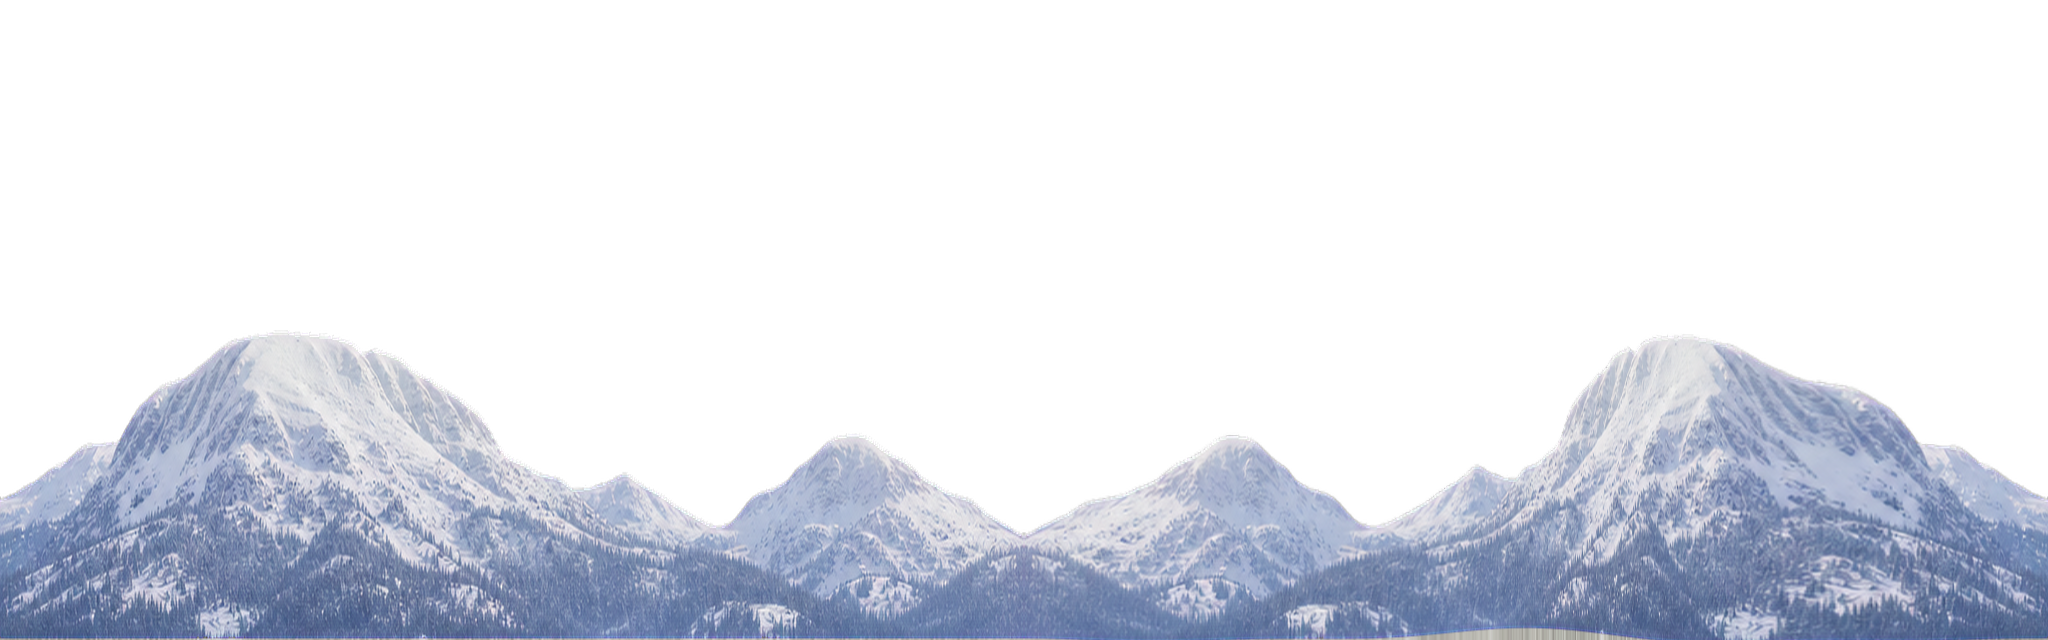
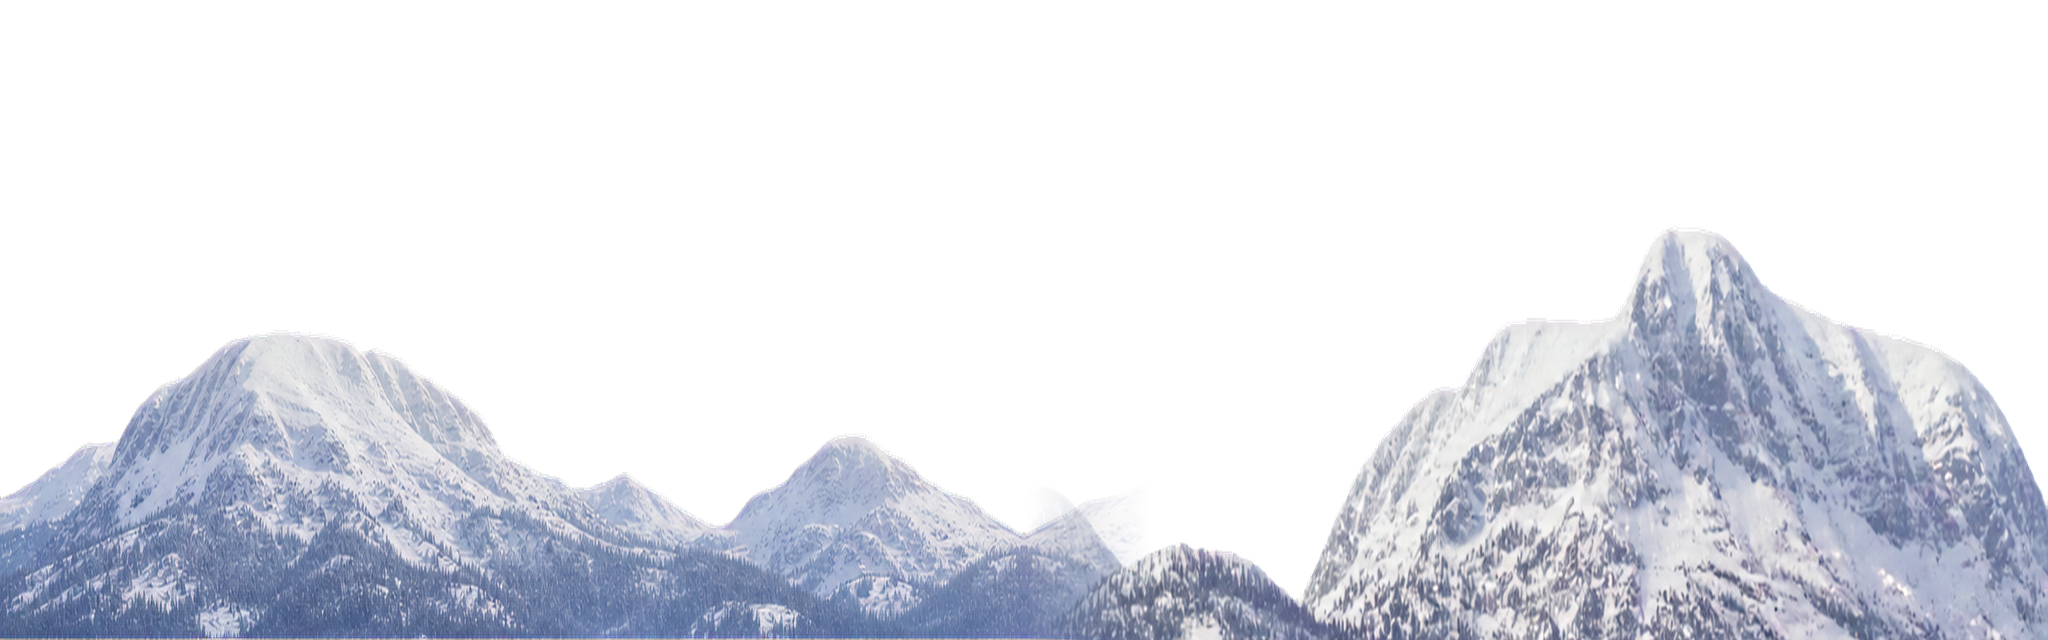
Wheel-load steering pose + another biome band art pass
Two parallel-session changes, committed together after validation.

Steering pose (GameScene.js, RestStopScene.js): the turn art is now
driven by WHEEL LOAD rather than raw steering intent. A pose-local
accumulator lerps toward _steerIntent at the same engage/release rates as
the physics steer ramp, and the pose engages only past ~35% load
(~0.14s of a real hold), with release hysteresis at 20% to stop it
flickering at the threshold. The previous intent-keyed version posed the
frame the player touched the controls, which read as fake; a quick tap
now only builds ~20-25% load and never flashes the art.

Band art: 21 more PNGs re-exported (easton, kittitas, north_bend,
palouse, pass_alpine, vantage_basalt, westside_forest — all three layers
each). Validated as before, since a blank band once shipped unnoticed:
all 27 are 2048x640, none blank, none near-empty.

Tests: 550 green. vite build clean.

Changed region(s): [[0.5, 0.3438, 1.0, 1.0]]

diff --git a/src/scenes/GameScene.js b/src/scenes/GameScene.js
@@ -13725,76 +13725,61 @@ export class GameScene extends Phaser.Scene {
    * Steering pose — swap the player sprite between the straight rear view and
    * the rear-three-quarter turn art. VISUAL ONLY: writes nothing to physics.
    *
-   * Driven by steering INTENT (`_steerIntent`, captured pre-ramp in
-   * _updatePlayer), NOT by the car's lateral velocity (owner 2026-08-10).
-   * Velocity is the last link in a three-stage lag chain — the 0.33 s input
-   * weight ramp, then grip-limited lateral acceleration, then a 0.30 magnitude
-   * gate — so a velocity-keyed pose always arrived visibly late, and no amount
-   * of debounce tuning could fix it. Intent is known the frame the player
-   * presses.
+   * Driven by WHEEL LOAD (owner 2026-08-11): a pose-local accumulator lerps
+   * toward `_steerIntent` at the SAME engage/release rates as the classic
+   * physics steer ramp, and the turn art engages only once the wheel is ~35 %
+   * loaded (~0.14 s of a real hold). A quick tap only ever builds ~20-25 %
+   * load, so it never flashes the turn art — the previous intent-keyed version
+   * posed the very frame the player touched the controls, which read as fake.
+   * Release hysteresis at 20 % keeps the pose from flickering at the line.
    *
-   * That also fixes the reversal bug: the old machine had to fully RELEASE
-   * before it could engage the opposite side, so through a left->right flip the
-   * sprite kept showing the LEFT art while the car was already travelling
-   * right. Intent flips sign instantly.
+   * The accumulator is deliberately NOT `_steerRamp` itself: physics only
+   * ramps in classic mode (tilt is analog, flappy is instant), but the owner
+   * wants the load gate in ALL modes — including flappy, which loses its old
+   * always-posed-per-tap behavior. In classic the two ramps track identically,
+   * so the pose still mirrors the real wheel.
+   *
+   * Reversals need no special casing anymore: the load unwinds through center
+   * on a left->right flip, so the sprite naturally shows straight for the
+   * beat the wheel crosses zero — which is what a real car does.
    *
    * Direction mapping: the turn art depicts the car turning toward SCREEN-LEFT,
    * so dir < 0 renders it unflipped and dir > 0 mirrors it.
-   *
-   * Per mode:
-   *   classic  digital +/-1  -> engages the same frame (no debounce needed)
-   *   tilt     analog        -> 0.18 deadzone + 30 ms debounce vs hand jitter
-   *   flappy   never neutral -> always posed, mirroring on each tap (owner's call)
    */
   _updateSteerPose(dt, rawLean) {
     const ps = this.playerSprite;
     if (!ps || this._cockpitActive) return;
     const base = 'codex_beater_back', turn = 'codex_beater_back_turn';
     if (this._playerArtKey !== base || !this.textures.exists(turn)) return;
-    const P = (this._steerPose ??= { dir: 0, pend: 0, engT: 0, relT: 0, blank: 0 });
+    const P = (this._steerPose ??= { dir: 0, load: 0 });
 
     const mode   = this._steerPoseMode ?? 'classic';
     const intent = this._steerIntent ?? 0;
     // Digital modes hand us a clean +/-1, so the deadzone only has to reject
     // float noise. Tilt is a real analog axis and needs a wrist-jitter band.
-    const DEAD        = mode === 'tilt' ? 0.18  : 0.01;
-    const ENGAGE_SEC  = mode === 'tilt' ? 0.030 : 0;
-    const RELEASE_SEC = 0.10;
+    const DEAD = mode === 'tilt' ? 0.18 : 0.01;
+    // Same per-second lerp rates as the classic physics steer ramp
+    // (STEER_RAMP_ENGAGE / STEER_RAMP_RELEASE in _updatePlayer) so the pose
+    // tracks the real wheel in classic mode.
+    const RAMP_ENGAGE  = 3.0;
+    const RAMP_RELEASE = 5.0;
+    const ENGAGE_AT  = 0.35;   // wheel load needed to show the turn art
+    const RELEASE_AT = 0.20;   // load below which the pose lets go (hysteresis)
     // Lateral velocity still counts for HOLDING a pose: if the player lets go
     // mid-slide the car is visibly still going sideways, and snapping upright
     // there looks worse than holding the three-quarter view a beat longer.
-    const DRIFT_HOLD  = 0.12;
+    const DRIFT_HOLD = 0.12;
 
-    const want = Math.abs(intent) >= DEAD ? Math.sign(intent) : 0;
+    const target = Math.abs(intent) >= DEAD ? intent : 0;
+    const rate   = target === 0 ? RAMP_RELEASE : RAMP_ENGAGE;
+    P.load += (target - P.load) * Math.min(1, rate * dt);
 
-    if (P.blank > 0) {
-      // Reversal's single straight frame has been shown — take the new side.
-      P.blank = 0;
-      P.dir   = want;
-      P.pend  = want;
-      P.engT  = 0;
-      P.relT  = 0;
-    } else if (want !== 0 && P.dir !== 0 && want !== P.dir) {
-      // REVERSAL: one frame of straight (owner's call), then the far side.
-      P.dir   = 0;
-      P.blank = 1;
-      P.engT  = 0;
-      P.relT  = 0;
-    } else if (P.dir === 0) {
-      if (want === 0) { P.pend = 0; P.engT = 0; }
-      else {
-        if (want !== P.pend) { P.pend = want; P.engT = 0; }
-        else P.engT += dt;
-        // ENGAGE_SEC of 0 engages on this very frame.
-        if (P.engT >= ENGAGE_SEC) { P.dir = want; P.relT = 0; }
-      }
+    if (P.dir === 0) {
+      if (Math.abs(P.load) >= ENGAGE_AT) P.dir = Math.sign(P.load);
     } else {
       const drifting = Math.abs(rawLean) >= DRIFT_HOLD && Math.sign(rawLean) === P.dir;
-      if (want === P.dir || drifting) P.relT = 0;
-      else {
-        P.relT += dt;
-        if (P.relT >= RELEASE_SEC) { P.dir = 0; P.pend = 0; P.engT = 0; }
-      }
+      const holding  = Math.sign(P.load) === P.dir && Math.abs(P.load) > RELEASE_AT;
+      if (!holding && !drifting) P.dir = 0;
     }
 
     const wantTex = P.dir === 0 ? base : turn;

diff --git a/src/scenes/RestStopScene.js b/src/scenes/RestStopScene.js
@@ -2882,7 +2882,16 @@ export class RestStopScene extends Phaser.Scene {
         // the next tier; in the full-ladder view that left a hole between
         // "✓ Lv1" and "🔒 Lv3", so the rung now stays put and just flips state.
         if (item.payload?.upgradeInstall || item.payload?.vehicleAccessory) {
-          this._markRowOwned(item);
+          // Some parts are shelved at MORE THAN ONE storefront as separate row
+          // objects (bumper at Finesse + Sam's; windshield/headlights/wipers L1
+          // at Sam's too), so marking only the tapped row left the sibling
+          // buyable — a second $4k bumper in the same visit bought nothing
+          // (owner 2026-08-11). Flip every same-id row to ✓ OWNED.
+          for (const _k of ['schwasted', 'fap', 'sam_acc']) {
+            for (const _it of (SECTIONS[_k]?.items ?? [])) {
+              if (_it.id === item.id) this._markRowOwned(_it);
+            }
+          }
           if (item.slot && item.lvl) this._unlockTier(item.slot, item.lvl + 1);
         }
         // Genre car bought/swapped — this row becomes YOUR RIDE for the visit.
